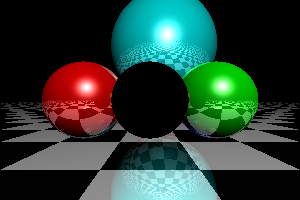
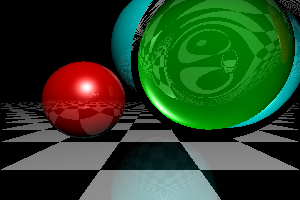
First commit

diff --git a/shitty_balls.py b/shitty_balls.py
@@ -19,14 +19,17 @@ def reflected(vector, axis):
 
 def refracted(vector, norm, n1, n2):
     n = n1 / n2
-    n = 0.95
     cosI = -np.dot(norm, vector)
     sinT2 = n ** 2 * (1 - cosI ** 2)
     cosT = np.sqrt(1 - sinT2)
     # if cosI < 0.25:
     #     return reflected(vector, norm)
     return n * vector + (n * cosI - cosT) * norm
-    # return vector
+
+
+def refracted2(vector, norm, n1, n2):
+    n = n2/n1
+    return n*(vector - np.dot(norm, vector) * norm) + np.sqrt(1 - n ** 2 * (1 - np.dot(norm, vector) ** 2)) * norm
 
 
 def sphere_intersect(center, radius, ray_origin, ray_direction):
@@ -50,7 +53,6 @@ def glass_intersect(center, radius, ray_origin, ray_direction):
         t1 = (-b + np.sqrt(delta)) / 2
         t2 = (-b - np.sqrt(delta)) / 2
         # returns cords of intersection
-        print(t1, t2)
         if max(t1, t2) > 0:
             return ray_origin + max(t1, t2) * ray_direction
     return None
@@ -103,7 +105,7 @@ def sphere_trace(origin, direction, min_distance, sphere, light, color, reflecti
     else:
         color += reflection * illumination
 
-    reflection *= sphere['reflection']
+    reflection *= sphere['reflection'] * 0.5
     origin = shifted_point
     direction = reflected(direction, normal_to_surface)
 
@@ -114,7 +116,6 @@ def glass_trace(origin, direction, min_distance, glass, light, color, reflection
     intersection = origin + min_distance * direction
     normal_to_surface = normalize(intersection - glass['center'])
     shifted_point = intersection + 1e-5 * normal_to_surface
-    intersection_to_light = normalize(light['position'] - shifted_point)
 
     # 1st refraction
     origin = intersection - 1e-5 * normal_to_surface
@@ -123,7 +124,7 @@ def glass_trace(origin, direction, min_distance, glass, light, color, reflection
     intersection = glass_intersect(glass['center'], glass['radius'], origin, direction)
     normal_to_surface = normalize(intersection - glass['center'])
     origin = intersection + 1e-5 * normal_to_surface
-    direction = refracted(direction, normal_to_surface, 1, 1.5)
+    direction = refracted2(direction, normal_to_surface, 1, 1.5)
 
     return origin, direction, color, reflection
 
@@ -145,8 +146,8 @@ light = {'position': np.array([1, 3, 4]), 'ambient': np.array([1, 1, 1]), 'diffu
 objects = [
     {'center': np.array([-0.5, 0, -0.2]), 'radius': 0.3, 'ambient': np.array([0.1, 0., 0]), 'specular': np.array([1, 1, 1]), 'shininess': 200, 'reflection': 0.5, 'type': 'sphere'},
     {'center': np.array([0.5, 2, -5]), 'radius': 2, 'ambient': np.array([0, 0.1, 0.1]), 'specular': np.array([1, 1, 1]), 'shininess': 200, 'reflection': 0.5, 'type': 'sphere'},
-    {'center': np.array([0.0, 0, 0.2]), 'radius': 0.2, 'ambient': np.array([0., 0, 0.1]), 'specular': np.array([1, 1, 1]), 'shininess': 200, 'reflection': 0.5, 'type': 'glass'},
-    {'center': np.array([0.5, 0, -0.2]), 'radius': 0.3, 'ambient': np.array([0, 0.1, 0.]), 'specular': np.array([1, 1, 1]), 'shininess': 200, 'reflection': 0.5, 'type': 'sphere'},
+    {'center': np.array([0.15, 0.1, 0.6]), 'radius': 0.2, 'ambient': np.array([0., 0, 0.1]), 'specular': np.array([1, 1, 1]), 'shininess': 200, 'reflection': 0.5, 'type': 'glass'},
+    {'center': np.array([0.5, 0.3, -0.2]), 'radius': 0.25, 'ambient': np.array([0, 0.1, 0.]), 'specular': np.array([1, 1, 1]), 'shininess': 200, 'reflection': 0.5, 'type': 'sphere'},
     {'center': np.array([0, -9000, 0]), 'radius': 9000 - 0.7, 'ambient': np.array([0.1, 0.1, 0.1]), 'specular': np.array([1, 1, 1]), 'shininess': 200, 'reflection': 0.5, 'type': 'sphere'}
 ]
 

diff --git a/test.py b/test.py
@@ -1,0 +1,23 @@
+import numpy as np
+
+
+def refracted2(vector, norm, n1, n2):
+    n = n2/n1
+    return n*(vector - np.dot(norm, vector) * norm) + np.sqrt(1 - n ** 2 * (1 - np.dot(norm, vector) ** 2)) * norm
+
+
+def refracted(vector, norm, n1, n2):
+    n = n1 / n2
+    cosI = -np.dot(norm, vector)
+    sinT2 = n ** 2 * (1 - cosI ** 2)
+    cosT = np.sqrt(1 - sinT2)
+    # if cosI < 0.25:
+    #     return reflected(vector, norm)
+    return n * vector + (n * cosI - cosT) * norm
+
+
+a = np.array([0.45, 0])
+b = np.array([1, 0])
+n1 = 1
+n2 = 1.5
+print(refracted2(a, b, n1, n2))
